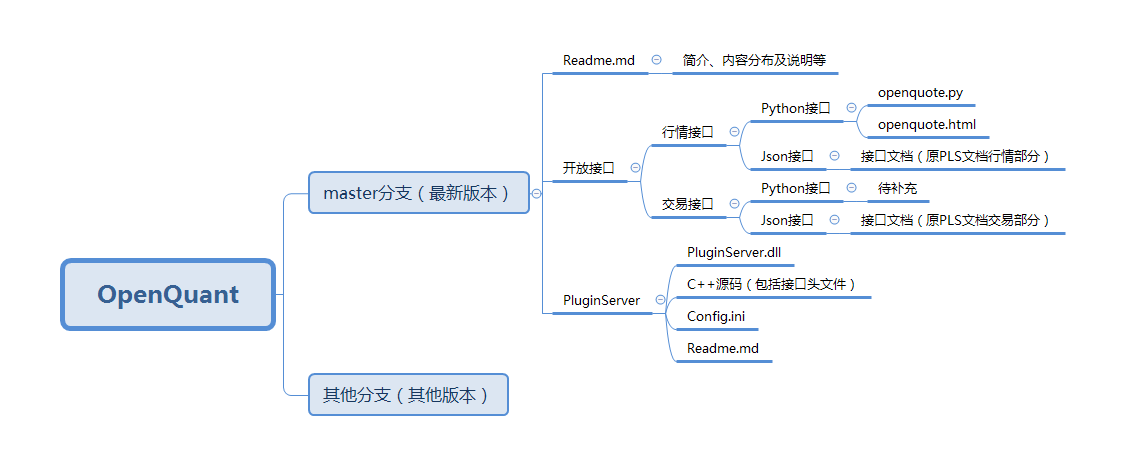
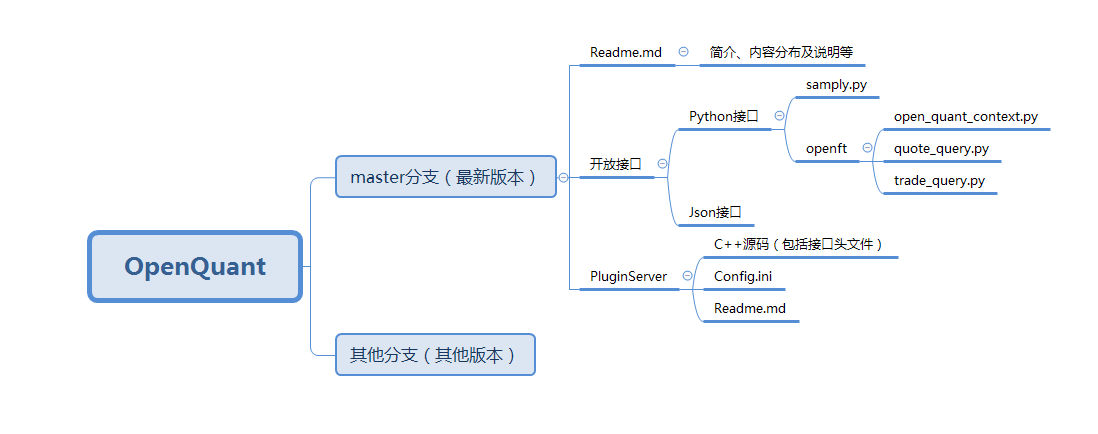
update

Changed region(s): [[0.2477, 0.0899, 0.9599, 0.7788], [0.031, 0.5092, 0.2787, 0.7189], [0.2477, 0.7488, 0.4954, 0.8986]]

diff --git a/开放接口/Python接口/openft/__init__.py b/开放接口/Python接口/openft/__init__.py
@@ -1,6 +1,6 @@
 import sys
 sys.path.append('.')
-__all__ = ['quote_query', 'quote_context']
+__all__ = ['quote_query', 'open_quant_context', 'trade_query']
 
 
 
